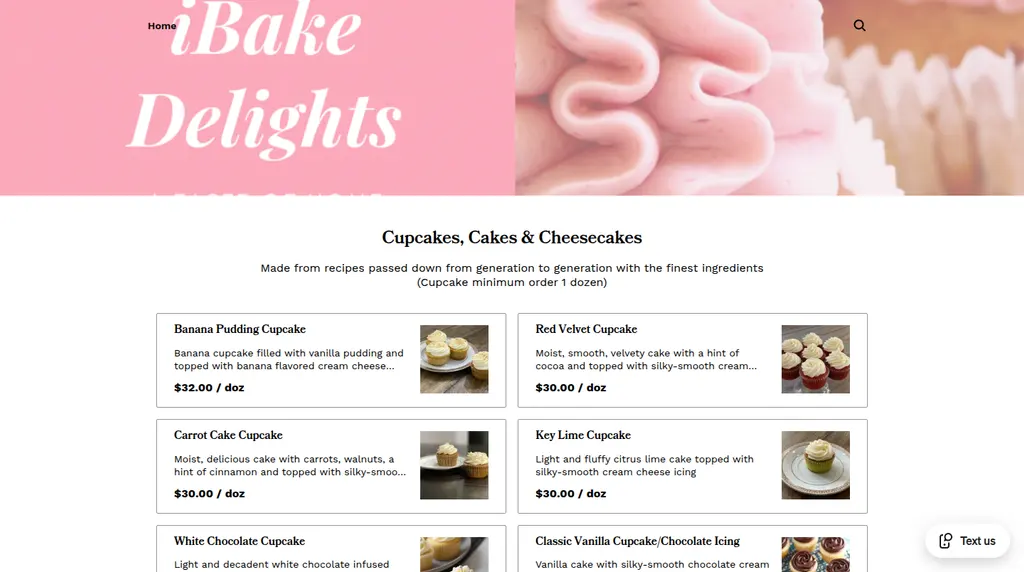
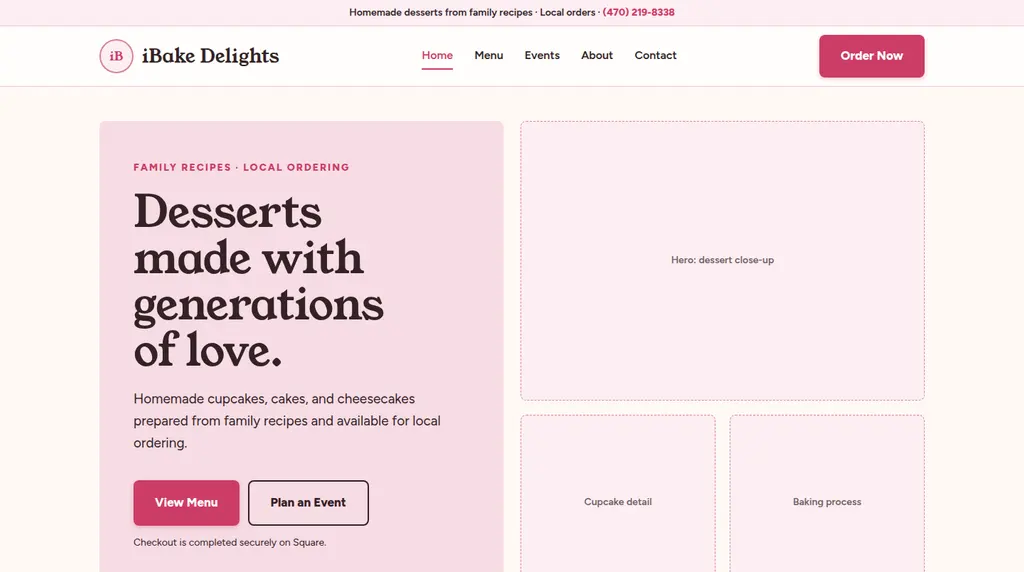
Update live portfolio links and the iBake homepage shot. (#9)
Kirkland Faith Care and Union Missionary Baptist now open their live sites, Abib stays unlinked without a badge, and iBake shows the Vercel homepage while remaining in development.

diff --git a/portfolio/index.html b/portfolio/index.html
@@ -190,7 +190,7 @@
       <div class="block h-full"><article class="card-hover rounded-2xl overflow-hidden surface group h-full"><div class="aspect-[16/9] w-full relative overflow-hidden"><img src="/images/work/yinuska.webp" alt="Yinus Kane' clothing store website mockup" loading="lazy" decoding="async" class="absolute inset-0 w-full h-full object-cover transition-transform duration-700 group-hover:scale-105"><div class="absolute inset-0 flex flex-col justify-end p-5 opacity-0 group-hover:opacity-100 transition-opacity duration-300" style="background:linear-gradient(to top,rgba(10,21,36,.94) 15%,rgba(10,21,36,.2) 65%,transparent 100%)"><span class="text-accent text-[11px] track-wide font-700">Fashion · E-commerce</span><p class="text-[12.5px] text-dim leading-relaxed mt-1.5">A rising clothing brand that needed an online storefront to match its identity. We built a custom e-commerce store organized by collection and category, designed to look as premium as the clothing.</p></div></div><div class="flex justify-between items-center px-5 py-4 text-[12px]"><span class="text-ink border-l-2 border-accent pl-2">Yinus Kane'</span><span class="text-dim2">Fashion · E-commerce</span></div></article></div>
       <a href="https://odellcleveland.com" target="_blank" rel="noopener" class="block h-full"><article class="card-hover rounded-2xl overflow-hidden surface group h-full"><div class="aspect-[16/9] w-full relative overflow-hidden"><img src="/images/work/odellcleveland.webp" alt="Odell Cleveland website mockup" loading="lazy" decoding="async" class="absolute inset-0 w-full h-full object-cover transition-transform duration-700 group-hover:scale-105"><div class="absolute inset-0 flex flex-col justify-end p-5 opacity-0 group-hover:opacity-100 transition-opacity duration-300" style="background:linear-gradient(to top,rgba(10,21,36,.94) 15%,rgba(10,21,36,.2) 65%,transparent 100%)"><span class="text-accent text-[11px] track-wide font-700">Faith · Leadership Consulting</span><p class="text-dim text-[12.5px] leading-relaxed mt-1.5">A faith leadership consultant whose expertise wasn't translating into booked strategy sessions. We built a growth-focused site around his stewardship approach — built to convert visitors into booked calls.</p></div></div><div class="flex justify-between items-center px-5 py-4 text-[12px]"><span class="text-ink border-l-2 border-accent pl-2">Odell Cleveland</span><span class="text-dim2">Faith · Leadership Consulting</span></div></article></a>
       <a href="https://www.mondioutdoor.com/" target="_blank" rel="noopener" class="block h-full"><article class="card-hover rounded-2xl overflow-hidden surface group h-full"><div class="aspect-[16/9] w-full relative overflow-hidden"><img src="/images/work/mondi-outdoor-services.webp" alt="Mondi Outdoor Services website mockup" loading="lazy" decoding="async" class="absolute inset-0 w-full h-full object-cover transition-transform duration-700 group-hover:scale-105"><div class="absolute inset-0 flex flex-col justify-end p-5 opacity-0 group-hover:opacity-100 transition-opacity duration-300" style="background:linear-gradient(to top,rgba(10,21,36,.94) 15%,rgba(10,21,36,.2) 65%,transparent 100%)"><span class="text-accent text-[11px] track-wide font-700">Lawn Care · Landscaping</span><p class="text-dim text-[12.5px] leading-relaxed mt-1.5">Lawn maintenance, landscaping, and property care in Athens and Augusta, Georgia, with a clear free-estimate call to action.</p></div></div><div class="flex justify-between items-center px-5 py-4 text-[12px]"><span class="text-ink border-l-2 border-accent pl-2">Mondi Outdoor Services</span><span class="text-dim2">Lawn Care · Landscaping</span></div></article></a>
-      <article class="card-hover rounded-2xl overflow-hidden surface group h-full"><div class="aspect-[16/9] w-full relative overflow-hidden"><img src="/images/work/abib-auto-sales.webp" alt="Abib Auto Sales homepage design" loading="lazy" decoding="async" class="absolute inset-0 w-full h-full object-cover"><span class="dev-badge">In development</span></div><div class="flex justify-between items-center px-5 py-4 text-[12px]"><span class="text-ink border-l-2 border-accent pl-2">Abib Auto Sales</span><span class="text-dim2">Used Car Dealership</span></div></article>
+      <article class="card-hover rounded-2xl overflow-hidden surface group h-full"><div class="aspect-[16/9] w-full relative overflow-hidden"><img src="/images/work/abib-auto-sales.webp" alt="Abib Auto Sales homepage design" loading="lazy" decoding="async" class="absolute inset-0 w-full h-full object-cover"></div><div class="flex justify-between items-center px-5 py-4 text-[12px]"><span class="text-ink border-l-2 border-accent pl-2">Abib Auto Sales</span><span class="text-dim2">Used Car Dealership</span></div></article>
       <a href="https://www.j15tennisacademy.com/" target="_blank" rel="noopener" class="block h-full"><article class="card-hover rounded-2xl overflow-hidden surface group h-full"><div class="aspect-[16/9] w-full relative overflow-hidden"><img src="/images/work/j15-tennis-academy.webp" alt="J15 Tennis Academy homepage" loading="lazy" decoding="async" class="absolute inset-0 w-full h-full object-cover transition-transform duration-700 group-hover:scale-105"></div><div class="flex justify-between items-center px-5 py-4 text-[12px]"><span class="text-ink border-l-2 border-accent pl-2">J15 Tennis Academy</span><span class="text-dim2">Sports Coaching</span></div></article></a>
       <a href="https://www.thereishopeministries.org/" target="_blank" rel="noopener" class="block h-full"><article class="card-hover rounded-2xl overflow-hidden surface group h-full"><div class="aspect-[16/9] w-full relative overflow-hidden"><img src="/images/work/hope-ministries.webp" alt="There Is H.O.P.E. Ministries homepage" loading="lazy" decoding="async" class="absolute inset-0 w-full h-full object-cover transition-transform duration-700 group-hover:scale-105"></div><div class="flex justify-between items-center px-5 py-4 text-[12px]"><span class="text-ink border-l-2 border-accent pl-2">There Is H.O.P.E. Ministries</span><span class="text-dim2">Faith · Nonprofit</span></div></article></a>
       <article class="card-hover rounded-2xl overflow-hidden surface group h-full"><div class="aspect-[16/9] w-full relative overflow-hidden"><img src="/images/work/elite-shaken-lemonade.webp" alt="Elite Shaken Lemonade website mockup" loading="lazy" decoding="async" class="absolute inset-0 w-full h-full object-cover transition-transform duration-700 group-hover:scale-105"><div class="absolute inset-0 flex flex-col justify-end p-5 opacity-0 group-hover:opacity-100 transition-opacity duration-300" style="background:linear-gradient(to top,rgba(10,21,36,.94) 15%,rgba(10,21,36,.2) 65%,transparent 100%)"><span class="text-accent text-[11px] track-wide font-700">Food & Beverage</span><p class="text-dim text-[12.5px] leading-relaxed mt-1.5">A growing beverage brand with no central place to showcase flavors or book events. We built a bright, appetite-driving site around locations and event booking — inquiries now come through the site instead of DMs.</p></div></div><div class="flex justify-between items-center px-5 py-4 text-[12px]"><span class="text-ink border-l-2 border-accent pl-2">Elite Shaken Lemonade</span><span class="text-dim2">Food & Beverage</span></div></article>
@@ -201,8 +201,8 @@
       <div class="block h-full"><article class="card-hover rounded-2xl overflow-hidden surface group h-full"><div class="aspect-[16/9] w-full relative overflow-hidden"><img src="/images/work/alicia-fitts-show.webp" alt="Alicia Fitts Show website mockup" loading="lazy" decoding="async" class="absolute inset-0 w-full h-full object-cover transition-transform duration-700 group-hover:scale-105"><div class="absolute inset-0 flex flex-col justify-end p-5 opacity-0 group-hover:opacity-100 transition-opacity duration-300" style="background:linear-gradient(to top,rgba(10,21,36,.94) 15%,rgba(10,21,36,.2) 65%,transparent 100%)"><span class="text-accent text-[11px] track-wide font-700">Talk Show · Podcast</span><p class="text-dim text-[12.5px] leading-relaxed mt-1.5">A talk show with a growing audience but no home base off social media. We built a site that gives the show's stories, financial insights, and community spotlights a permanent, professional home.</p></div></div><div class="flex justify-between items-center px-5 py-4 text-[12px]"><span class="text-ink border-l-2 border-accent pl-2">Alicia Fitts Show</span><span class="text-dim2">Talk Show · Podcast</span></div></article></div>
       <a href="https://reelqueenacademy.com" target="_blank" rel="noopener" class="block h-full"><article class="card-hover rounded-2xl overflow-hidden surface group h-full"><div class="aspect-[16/9] w-full relative overflow-hidden"><img src="/images/work/reel-queen-academy.webp" alt="The Reel Queen Academy website mockup" loading="lazy" decoding="async" class="absolute inset-0 w-full h-full object-cover transition-transform duration-700 group-hover:scale-105"><div class="absolute inset-0 flex flex-col justify-end p-5 opacity-0 group-hover:opacity-100 transition-opacity duration-300" style="background:linear-gradient(to top,rgba(10,21,36,.94) 15%,rgba(10,21,36,.2) 65%,transparent 100%)"><span class="text-accent text-[11px] track-wide font-700">Education · LMS + CMS</span><p class="text-[12.5px] text-dim leading-relaxed mt-1.5">An academy that needed a home for its courses. We built a custom learning management system (LMS) with a CMS built in, so lessons and content are managed and published in one place.</p></div></div><div class="flex justify-between items-center px-5 py-4 text-[12px]"><span class="text-ink border-l-2 border-accent pl-2">The Reel Queen Academy</span><span class="text-dim2">Education · LMS + CMS</span></div></article></a>
     
-      <article class="card-hover rounded-2xl overflow-hidden surface group h-full"><div class="aspect-[16/9] w-full relative overflow-hidden"><img src="/images/work/kirkland-faith-care.webp" alt="Kirkland Faith Care Ministries homepage" loading="lazy" decoding="async" class="absolute inset-0 w-full h-full object-cover"><span class="dev-badge">In development</span></div><div class="flex justify-between items-center px-5 py-4 text-[12px]"><span class="text-ink border-l-2 border-accent pl-2">Kirkland Faith Care Ministries</span><span class="text-dim2">Faith · Ministry</span></div></article>
-      <article class="card-hover rounded-2xl overflow-hidden surface group h-full"><div class="aspect-[16/9] w-full relative overflow-hidden"><img src="/images/work/union-missionary-baptist.webp" alt="Union Missionary Baptist homepage" loading="lazy" decoding="async" class="absolute inset-0 w-full h-full object-cover"><span class="dev-badge">In development</span></div><div class="flex justify-between items-center px-5 py-4 text-[12px]"><span class="text-ink border-l-2 border-accent pl-2">Union Missionary Baptist</span><span class="text-dim2">Faith · Church</span></div></article>
+      <a href="https://www.kirklandfaithcareministryllc.com/" target="_blank" rel="noopener" class="block h-full"><article class="card-hover rounded-2xl overflow-hidden surface group h-full"><div class="aspect-[16/9] w-full relative overflow-hidden"><img src="/images/work/kirkland-faith-care.webp" alt="Kirkland Faith Care Ministries homepage" loading="lazy" decoding="async" class="absolute inset-0 w-full h-full object-cover transition-transform duration-700 group-hover:scale-105"></div><div class="flex justify-between items-center px-5 py-4 text-[12px]"><span class="text-ink border-l-2 border-accent pl-2">Kirkland Faith Care Ministries</span><span class="text-dim2">Faith · Ministry</span></div></article></a>
+      <a href="https://www.umbcbarnwell.org/" target="_blank" rel="noopener" class="block h-full"><article class="card-hover rounded-2xl overflow-hidden surface group h-full"><div class="aspect-[16/9] w-full relative overflow-hidden"><img src="/images/work/union-missionary-baptist.webp" alt="Union Missionary Baptist homepage" loading="lazy" decoding="async" class="absolute inset-0 w-full h-full object-cover transition-transform duration-700 group-hover:scale-105"></div><div class="flex justify-between items-center px-5 py-4 text-[12px]"><span class="text-ink border-l-2 border-accent pl-2">Union Missionary Baptist</span><span class="text-dim2">Faith · Church</span></div></article></a>
       <article class="card-hover rounded-2xl overflow-hidden surface group h-full"><div class="aspect-[16/9] w-full relative overflow-hidden"><img src="/images/work/ibake-delights.webp" alt="iBake Delights homepage" loading="lazy" decoding="async" class="absolute inset-0 w-full h-full object-cover"><span class="dev-badge">In development</span></div><div class="flex justify-between items-center px-5 py-4 text-[12px]"><span class="text-ink border-l-2 border-accent pl-2">iBake Delights</span><span class="text-dim2">Bakery</span></div></article>
       <a href="https://www.diasporadolls.com/" target="_blank" rel="noopener" class="block h-full"><article class="card-hover rounded-2xl overflow-hidden surface group h-full"><div class="aspect-[16/9] w-full relative overflow-hidden"><img src="/images/work/diaspora-dolls.webp" alt="Diaspora Dolls homepage" loading="lazy" decoding="async" class="absolute inset-0 w-full h-full object-cover transition-transform duration-700 group-hover:scale-105"></div><div class="flex justify-between items-center px-5 py-4 text-[12px]"><span class="text-ink border-l-2 border-accent pl-2">Diaspora Dolls</span><span class="text-dim2">Retail</span></div></article></a>
     </div>
